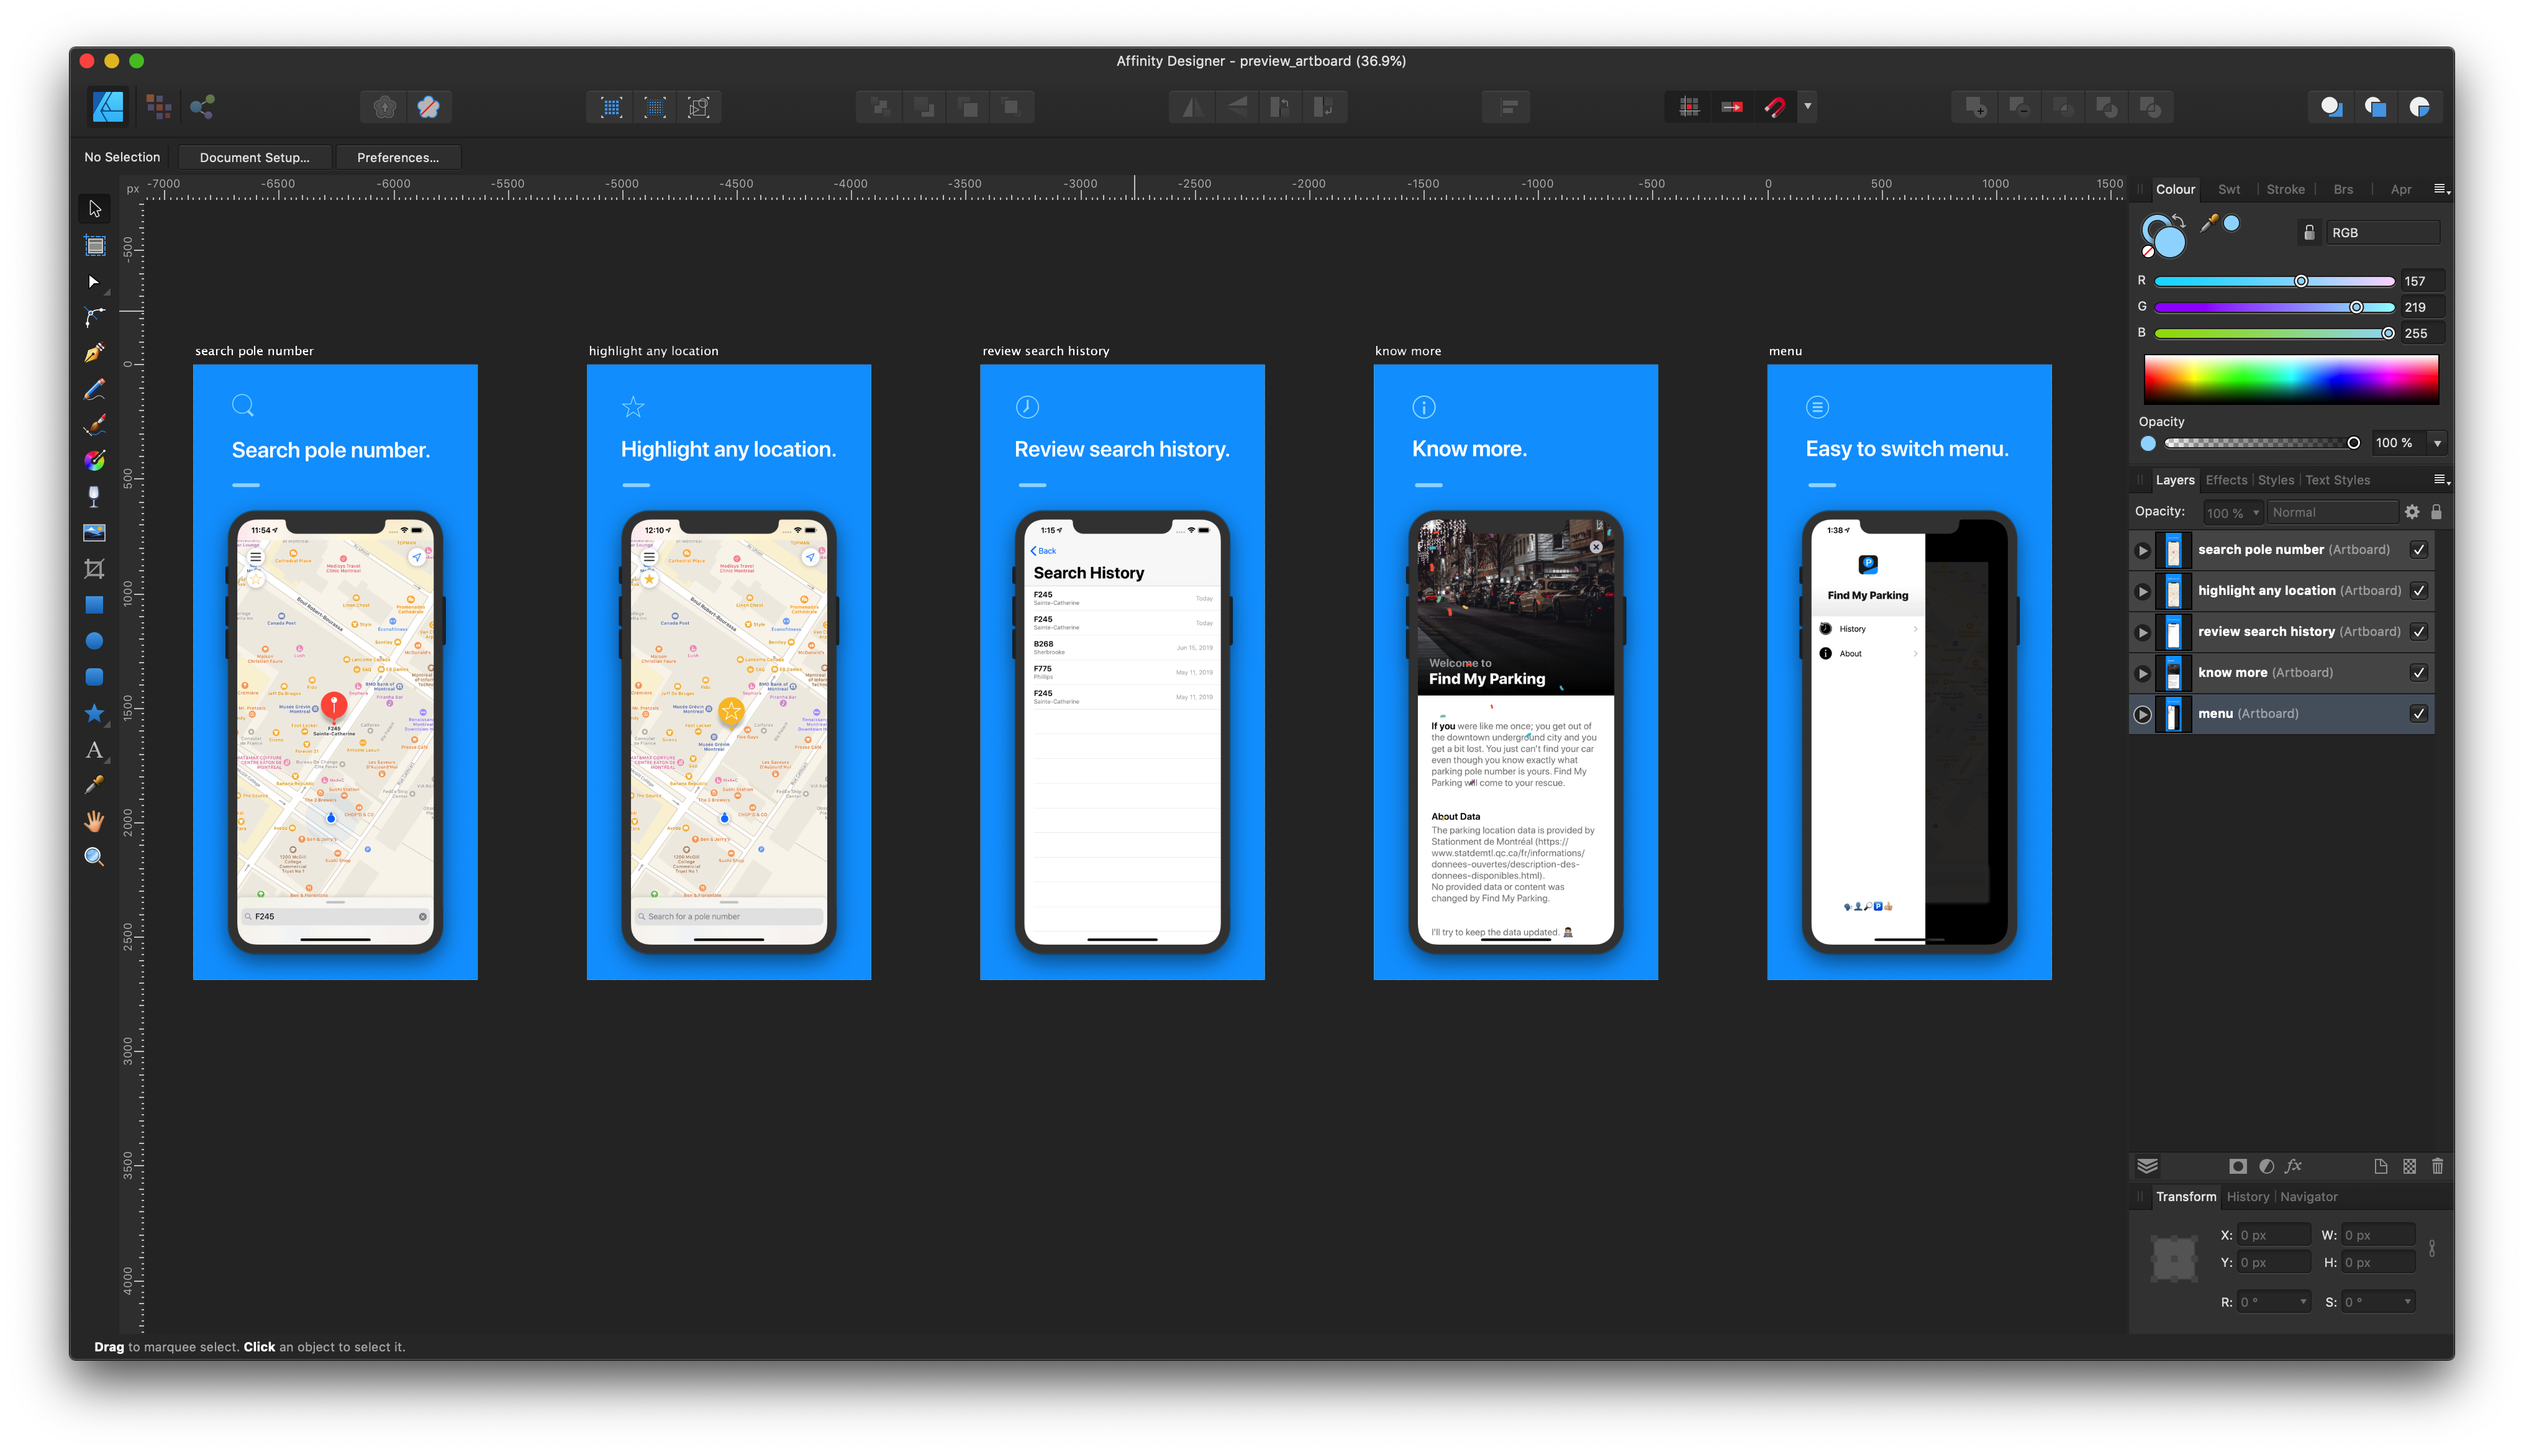
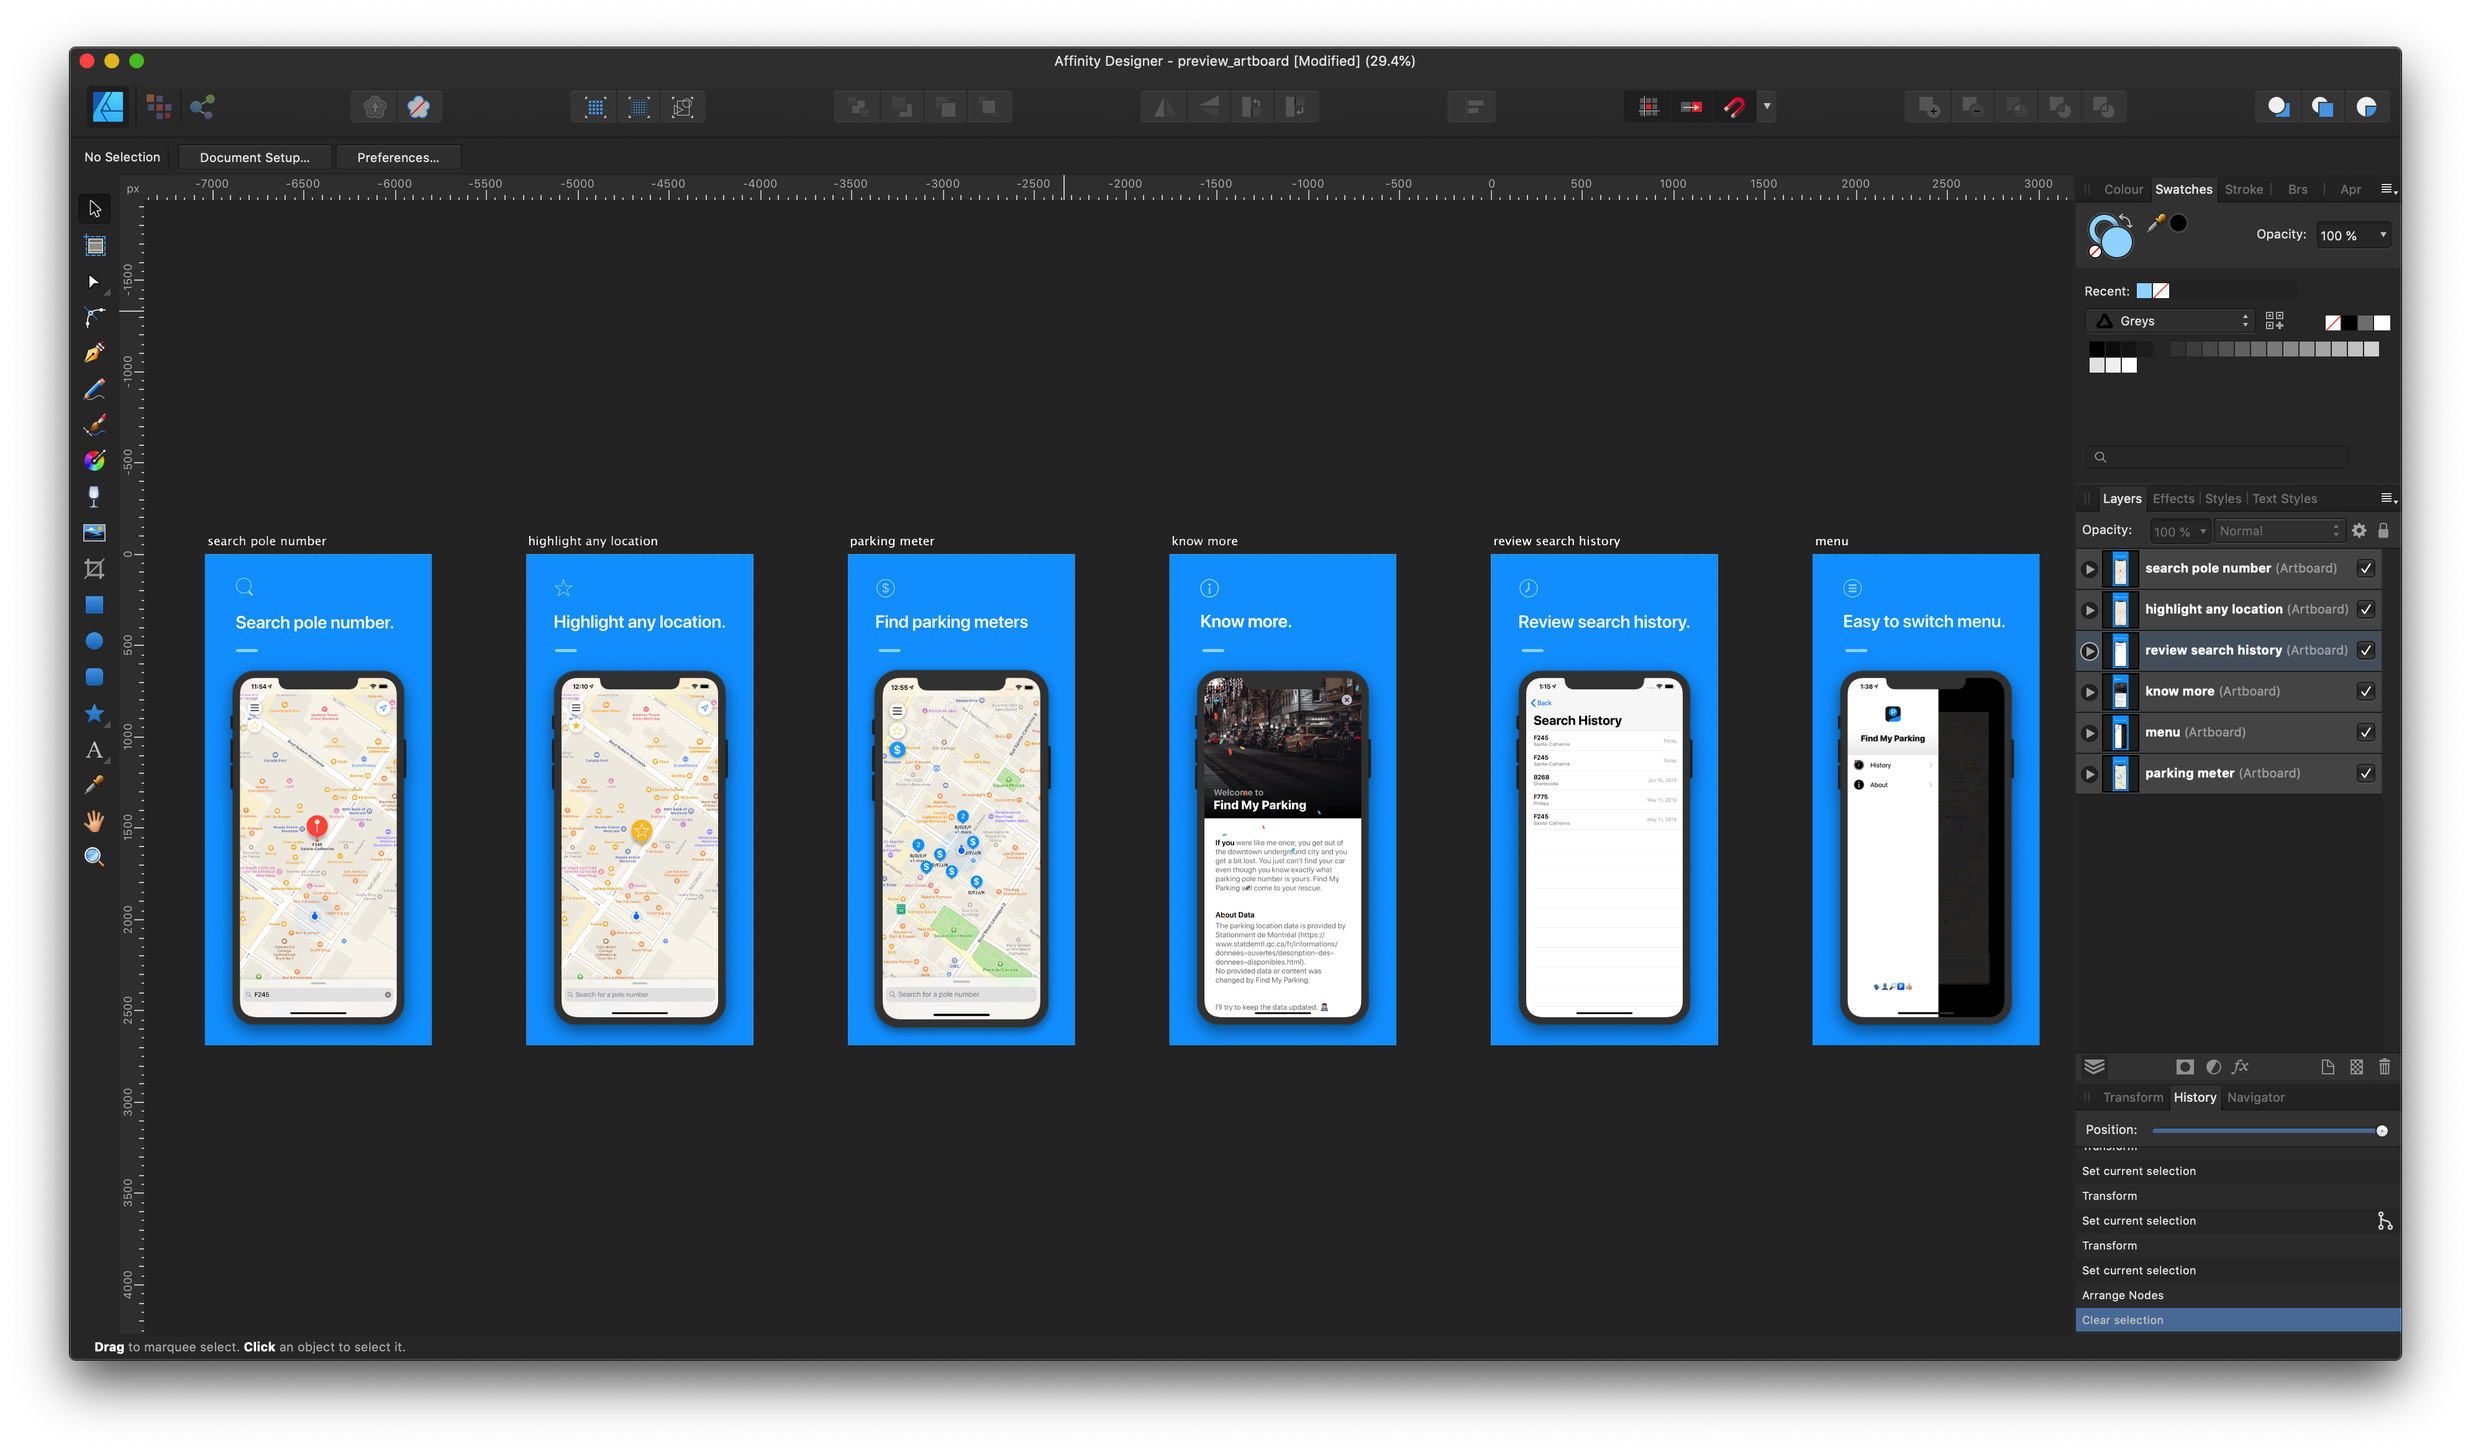
update clustering

diff --git a/projects/find-my-parking-demo.md b/projects/find-my-parking-demo.md
@@ -29,7 +29,7 @@ Available for download at `App Store`:
 1. Created `Auto Layout` UI and animation programmatically (No Storyboard)
 2. Request for user location with `CoreLocation` and shows it on `MapView` with `MapKit`
 3. Search parking pole data (open-source and provided by [Stationnement de Montréal](https://www.statdemtl.qc.ca/fr/informations/donnees-ouvertes/description-des-donnees-disponibles.html)) from a `SQLite` database with [FMDB](https://github.com/ccgus/fmdb) library, and show result on MapView with `MapKit Annotations`
-4. Read parking meters location from `.csv` file, fetched via `Core Data` then show user nearby ones
+4. Read parking meters location from `.csv` file, fetched via `Core Data` then show user nearby ones, including clustering
 5. Implemented `UIView` Constraint Animation along with `UISwipeGestureRecongizer`
 6. Intergrated a confetti animation with `CAEmitterLayer`
 7. Customized `UICollectionView` with `UIViewPropertyAnimator` and customized `Flow Layout` to achieve a blur effect animation
